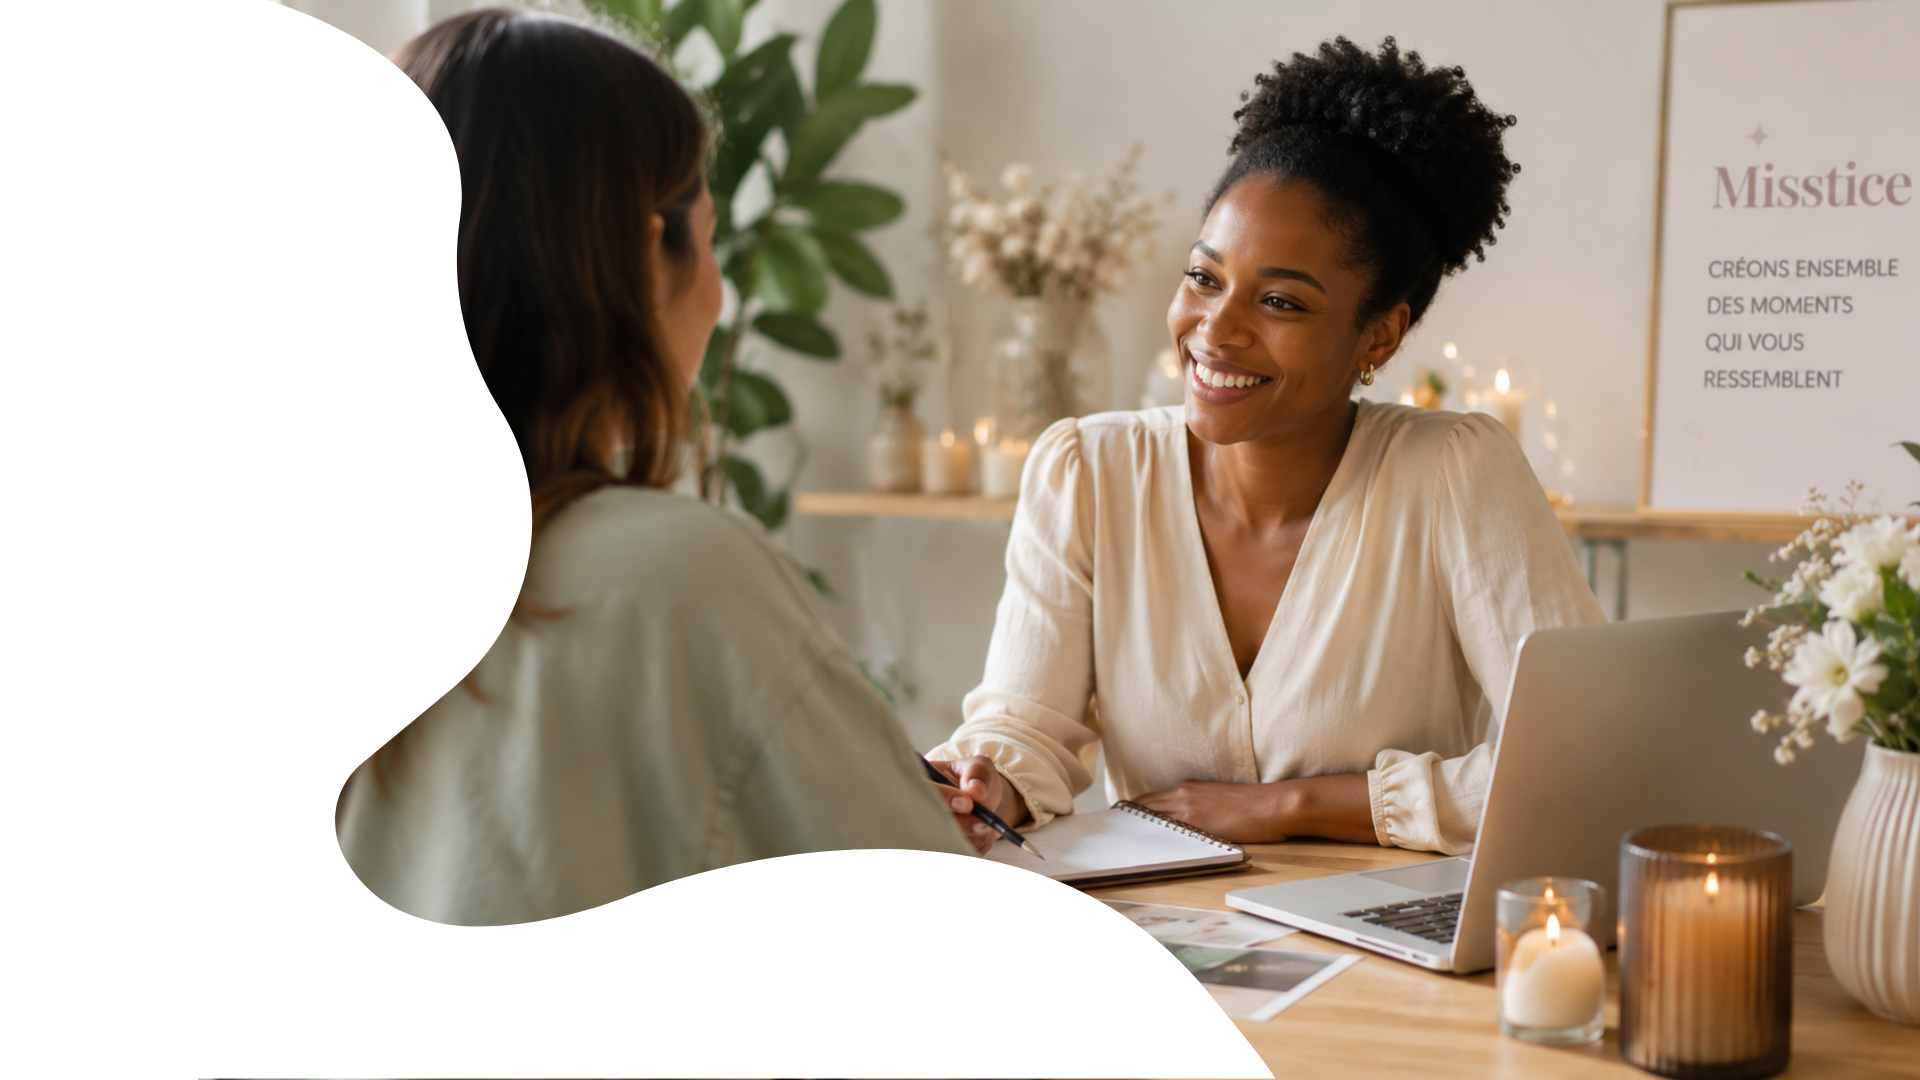
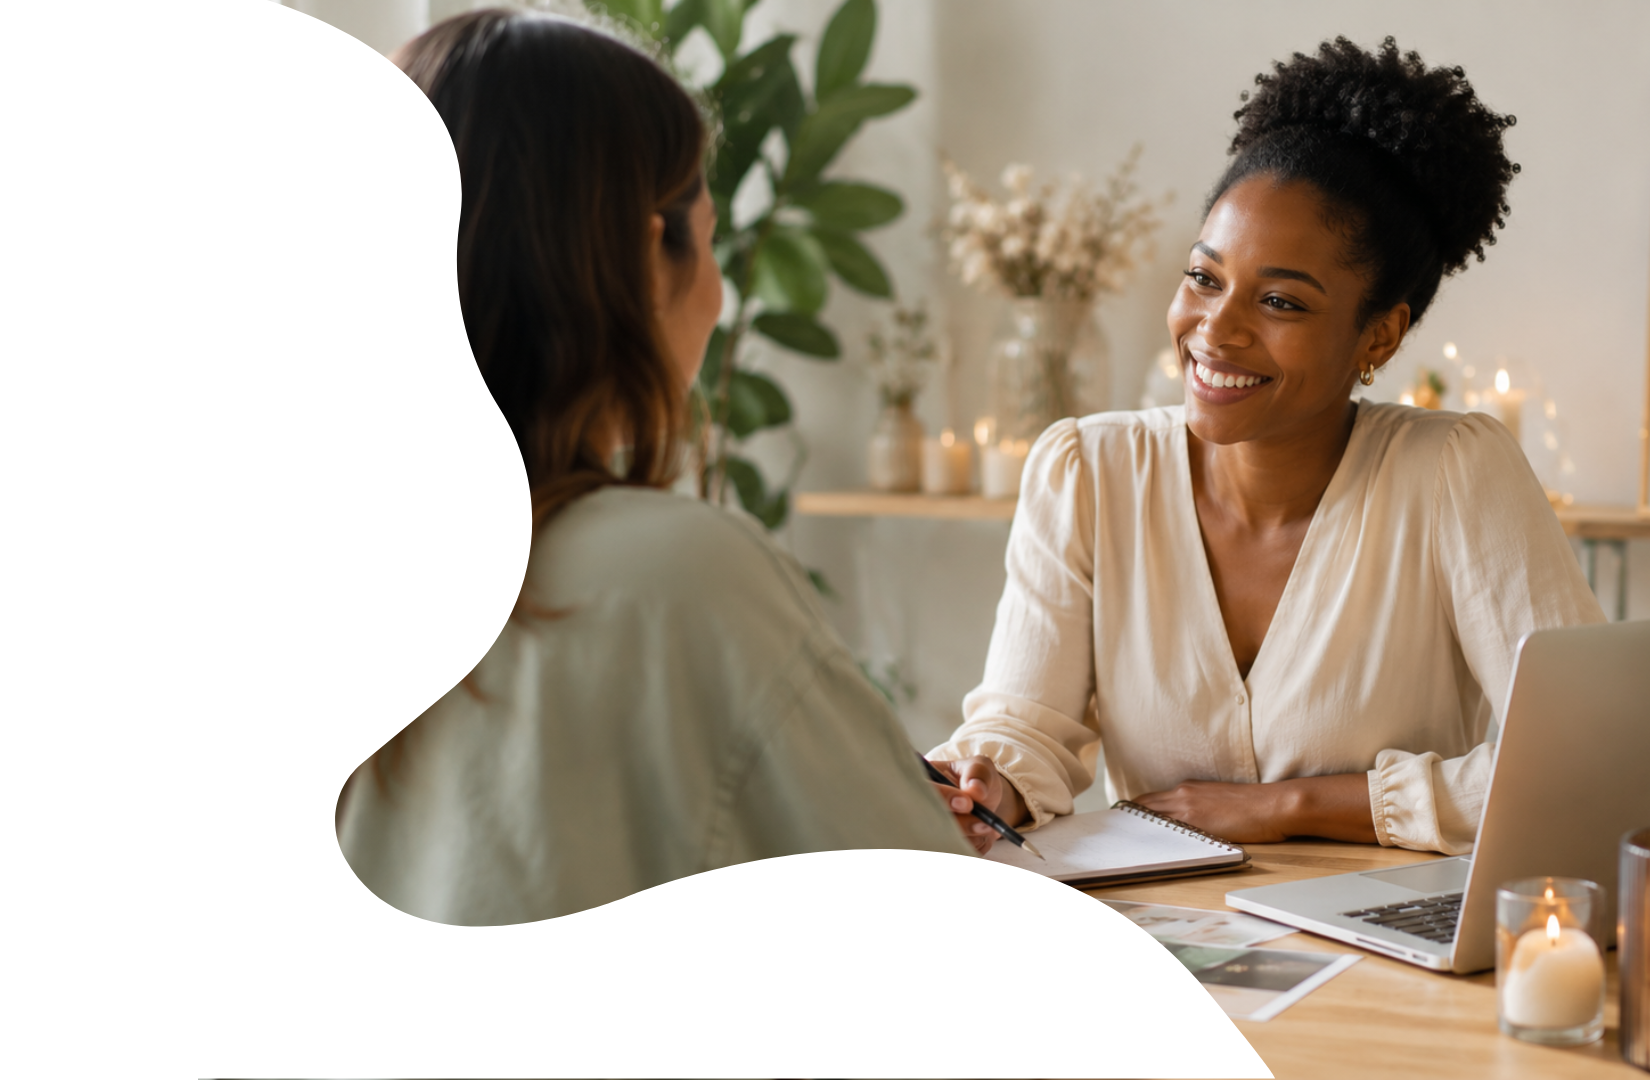
fix: retire définitivement l'affiche de la photo hero, restaure le texte d'origine
L'affiche "Misstice" en arrière-plan de la photo était toujours visible
malgré le recadrage CSS (zoom/position). Édite directement le fichier
image pour retirer cette zone (au lieu de dépendre du viewport), et
revient à la présentation de texte d'origine (taille, largeur, overlay
en dégradé) plutôt qu'aux ajustements de colonne étroite tentés
précédemment.

diff --git a/components/explorer/ExplorerClient.tsx b/components/explorer/ExplorerClient.tsx
@@ -149,46 +149,22 @@ export default function ExplorerClient({
   return (
     <div>
       {/* ── HERO ── */}
-      <section className="relative overflow-hidden bg-cream sm:min-h-[460px] lg:min-h-[520px]">
-        {/* Photo : carte au-dessus du texte sur mobile, fond plein cadre à partir de sm */}
-        <div className="mx-5 mt-5 h-48 overflow-hidden rounded-3xl sm:hidden">
-          {/* eslint-disable-next-line @next/next/no-img-element */}
-          <img
-            src="/prestataire_client_degrade.png"
-            alt="Une famille et une prestataire Misstice échangent autour d'un projet d'événement"
-            className="h-full w-full object-cover"
-            style={{ objectPosition: "30% 35%" }}
-          />
-        </div>
-        <div
-          className="hidden sm:absolute sm:inset-0 sm:block"
-          style={{
-            backgroundImage: "url('/prestataire_client_degrade.png')",
-            backgroundSize: "150% auto",
-            backgroundPosition: "left center",
-            backgroundRepeat: "no-repeat",
-          }}
-        />
-        {/* Voile blanc en dégradé : garantit la lisibilité du texte quel que
-            soit le contour exact de la forme blanche de la photo. */}
-        <div
-          className="hidden sm:absolute sm:inset-y-0 sm:left-0 sm:block sm:w-[55%]"
-          style={{
-            background:
-              "linear-gradient(to right, white 0%, white 55%, rgba(255,255,255,0.85) 70%, rgba(255,255,255,0) 100%)",
-          }}
-        />
-        <div className="relative px-5 py-8 sm:px-8 sm:py-16 lg:py-20">
-          <div className="max-w-xs sm:max-w-sm lg:max-w-md">
-            <h1 className="font-display text-3xl font-semibold leading-[1.1] tracking-tight text-plum sm:text-4xl lg:text-5xl">
+      <section
+        className="relative overflow-hidden bg-cream bg-cover bg-center"
+        style={{ backgroundImage: "url('/prestataire_client_degrade.png')" }}
+      >
+        <div className="absolute inset-0 bg-gradient-to-r from-white/95 via-white/75 to-white/20" />
+        <div className="relative mx-auto max-w-content px-5 py-14 sm:px-8 lg:py-20">
+          <div className="max-w-xl">
+            <h1 className="font-display text-4xl font-semibold leading-[1.05] tracking-tight text-plum sm:text-5xl">
               Trouvez le prestataire{" "}
               <span className="text-festif">qui vous ressemble</span>
             </h1>
-            <p className="mt-4 text-base leading-relaxed text-slate">
+            <p className="mt-4 max-w-lg text-lg leading-relaxed text-slate">
               Photographes, traiteurs, DJ, salles… Comparez en toute
               transparence et gardez vos favoris.
             </p>
-            <p className="mt-2 text-sm leading-relaxed text-plum/70 sm:text-base">
+            <p className="mt-2 max-w-lg text-base leading-relaxed text-plum/70">
               Laissez Misstice identifier ce qui vous inspire : filtrez par
               <span className="font-semibold text-violet"> ambiance, énergie et style</span>,
               et trouvez le prestataire qui vous ressemble vraiment.
